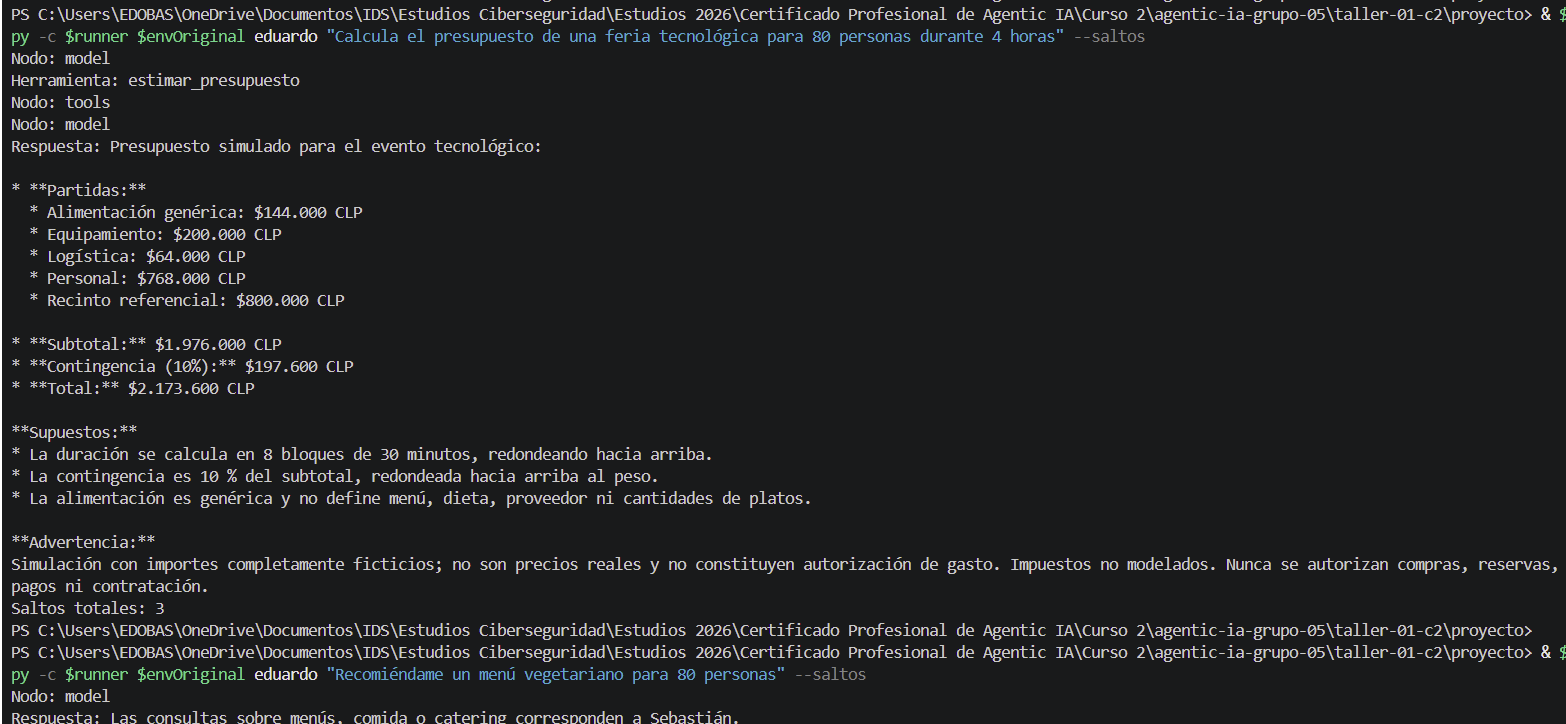
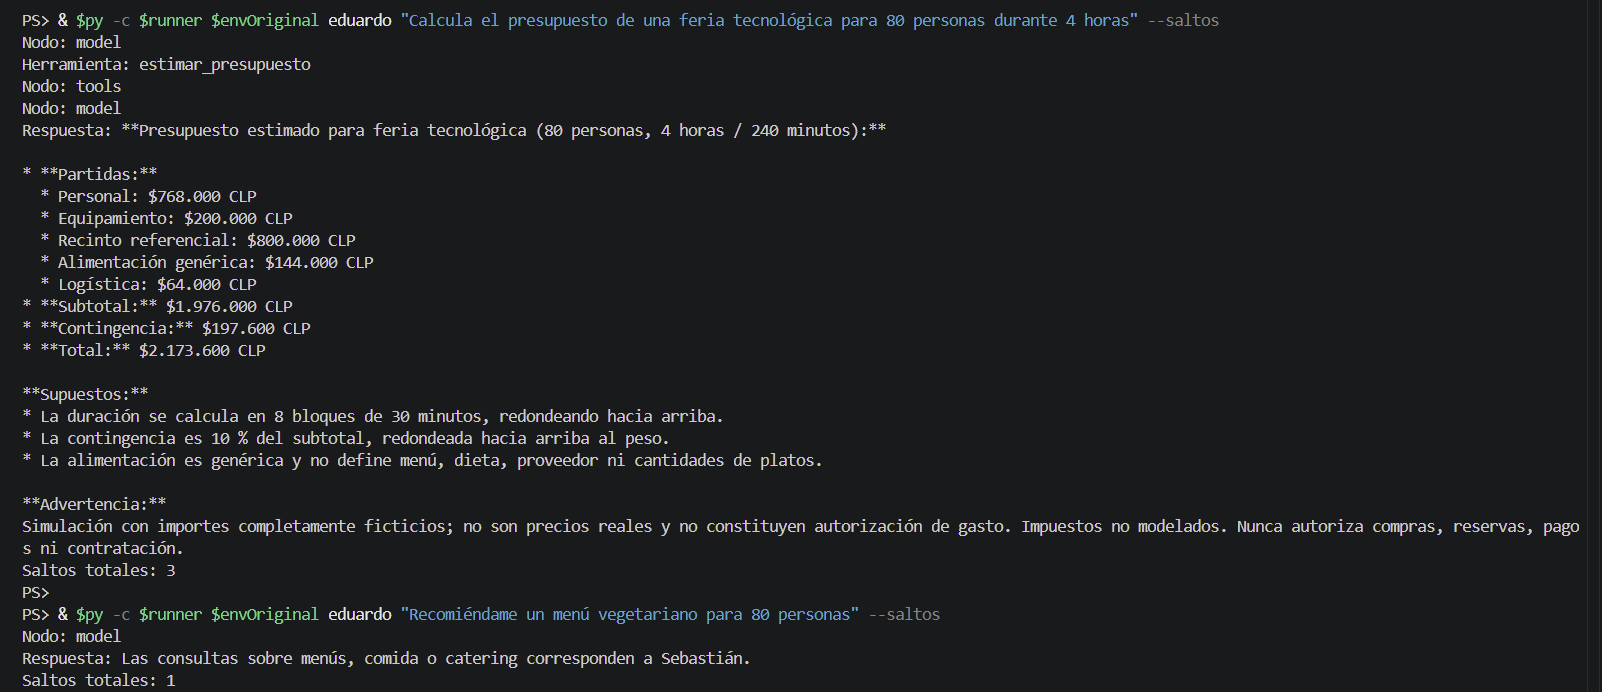
c2t1: corrige evidencia y diagrama real de Eduardo

Changed region(s): [[0.0, 0.2428, 1.0, 1.0], [0.0, 0.0, 1.0, 0.2124]]

diff --git a/taller-01-c2/documento-eduardo.md b/taller-01-c2/documento-eduardo.md
@@ -45,24 +45,35 @@ re-ejecutaron durante la revisión documental:
   **$2.173.600 CLP**, en 3 saltos: `model → tools (estimar_presupuesto) → model`.
 - **Derivación de menú vegetariano:** Sebastián, 1 salto (`model`), sin herramienta.
 - **Derivación de consulta sobre recintos:** Alex, 1 salto (`model`), sin herramienta.
-- **Derivación de consulta sobre actividades y horarios:** Matías, 1 salto (`model`), sin herramienta.
+- - **Derivación de consulta sobre actividades y horarios:** Matías es el agente responsable según el prompt. Prueba de ejecución pendiente.
 
-Diagrama Mermaid comunicado como validado:
+Diagrama Mermaid generado directamente con el comando `python main.py eduardo --diagrama`:
 
 ```mermaid
-graph TD
-    __start__([__start__]) --> model
-    model -.-> __end__([__end__])
-    model -.-> tools
-    tools --> model
-    tools["tools<br/>estimar_presupuesto"]
+---
+config:
+  flowchart:
+    curve: linear
+---
+graph TD;
+        __start__([<p>__start__</p>]):::first
+        model(model)
+        tools(tools<hr/><small><em>__tools = estimar_presupuesto</em></small>)
+        __end__([<p>__end__</p>]):::last
+        __start__ --> model;
+        model -.-> __end__;
+        model -.-> tools;
+        tools -.-> model;
+        classDef default fill:#f2f0ff,line-height:1.2
+        classDef first fill-opacity:0
+        classDef last fill:#bfb6fc
 ```
 
-La captura [`evidencias/eduardo/01-saltos.png`](evidencias/eduardo/01-saltos.png) muestra
-la ejecución del presupuesto con sus tres saltos y el comienzo de la respuesta de derivación
-del menú vegetariano. La captura disponible no documenta por sí sola todas las consultas;
- los resultados de las tres derivaciones indicadas arriba corresponden a ejecuciones reales
- validadas por Eduardo.
+
+La captura [`evidencias/eduardo/01-saltos.png`](evidencias/eduardo/01-saltos.png) muestra la ejecución del presupuesto simulado de $2.173.600 CLP, con tres saltos y uso de `estimar_presupuesto`. También muestra el rechazo completo de una consulta sobre menú vegetariano, derivada a Sebastián en un salto y sin ejecutar herramientas. La evidencia no expone rutas personales ni credenciales.
+
+La derivación a Alex fue verificada mediante una ejecución independiente. La derivación a Matías está definida en el prompt, pero su prueba específica continúa pendiente.
+
 
 ## 4. Fichas del agente y `02-ficha-antes.json`
 
